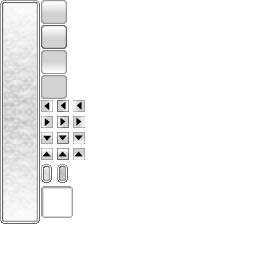
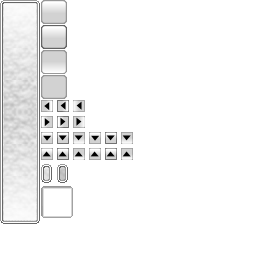
Change dropdown theming.

Changed region(s): [[0.3438, 0.5, 0.5312, 0.625]]

diff --git a/src/gui/widgets/dropdown.cpp b/src/gui/widgets/dropdown.cpp
@@ -48,6 +48,12 @@ Image *DropDown::buttons[2][2];
 ImageRect DropDown::skin;
 float DropDown::mAlpha = 1.0;
 
+static std::string const dropdownFiles[2] =
+{
+    "dropdown.xml",
+    "dropdown_pressed.xml"
+};
+
 DropDown::DropDown(gcn::ListModel *listModel, gcn::ActionListener* listener,
                    std::string eventId):
     gcn::DropDown::DropDown(listModel,
@@ -60,47 +66,37 @@ DropDown::DropDown(gcn::ListModel *listModel, gcn::ActionListener* listener,
     if (instances == 0)
     {
         // Load the background skin
-
-        // Get the button skin
-        buttons[1][0] = Theme::getImageFromTheme("vscroll_up_default.png");
-        buttons[0][0] = Theme::getImageFromTheme("vscroll_down_default.png");
-        buttons[1][1] = Theme::getImageFromTheme("vscroll_up_pressed.png");
-        buttons[0][1] = Theme::getImageFromTheme("vscroll_down_pressed.png");
-
-        if (buttons[0][0])
-            buttons[0][0]->setAlpha(mAlpha);
-        if (buttons[0][1])
-            buttons[0][1]->setAlpha(mAlpha);
-        if (buttons[1][0])
-            buttons[1][0]->setAlpha(mAlpha);
-        if (buttons[1][1])
-            buttons[1][1]->setAlpha(mAlpha);
-
-        // get the border skin
-        Image *boxBorder = Theme::getImageFromTheme("deepbox.png");
-        if (boxBorder)
+        for (int i = 0; i < 2; i ++)
         {
-            int gridx[4] = {0, 3, 28, 31};
-            int gridy[4] = {0, 3, 28, 31};
-            int a = 0, x, y;
-
-            for (y = 0; y < 3; y++)
+            Skin *skin = Theme::instance()->load(dropdownFiles[i]);
+            if (skin)
             {
-                for (x = 0; x < 3; x++)
+                const ImageRect &rect = skin->getBorder();
+                for (int f = 0; f < 2; f ++)
                 {
-                    skin.grid[a] = boxBorder->getSubImage(gridx[x], gridy[y],
-                                                          gridx[x + 1] -
-                                                          gridx[x] + 1,
-                                                          gridy[y + 1] -
-                                                          gridy[y] + 1);
-                    if (skin.grid[a])
-                        skin.grid[a]->setAlpha(mAlpha);
-                    a++;
+                    if (rect.grid[f])
+                    {
+                        rect.grid[f]->incRef();
+                        buttons[f][i] = rect.grid[f];
+                        buttons[f][i]->setAlpha(mAlpha);
+                    }
+                    else
+                    {
+                        buttons[f][i] = nullptr;
+                    }
                 }
             }
-
-            boxBorder->decRef();
+            else
+            {
+                for (int f = 0; f < 2; f ++)
+                    buttons[f][i] = nullptr;
+            }
+            Theme::instance()->unload(skin);
         }
+
+        // get the border skin
+        if (Theme::instance())
+            Theme::instance()->loadRect(skin, "dropdown_background.xml");
     }
 
     instances++;
@@ -119,21 +115,6 @@ DropDown::DropDown(gcn::ListModel *listModel, gcn::ActionListener* listener,
 DropDown::~DropDown()
 {
     instances--;
-    // Free images memory
-    if (instances == 0)
-    {
-        if (buttons[0][0])
-            buttons[0][0]->decRef();
-        if (buttons[0][1])
-            buttons[0][1]->decRef();
-        if (buttons[1][0])
-            buttons[1][0]->decRef();
-        if (buttons[1][1])
-            buttons[1][1]->decRef();
-
-        for_each(skin.grid, skin.grid + 9, dtor<Image*>());
-    }
-
     delete mScrollArea;
     mScrollArea = nullptr;
 }
